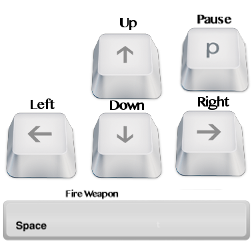
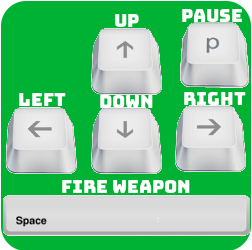
v0.3.7 added controlSelection scene

diff --git a/scripts/scenes/controlSelection.js b/scripts/scenes/controlSelection.js
@@ -1,0 +1,69 @@
+/**
+ * @file controlSelection.ts
+ * @author Kevin Ma kma45@my.centennialcollege.ca
+ * @date December 6 2016
+ * @version 0.3.7 added controlSelection scene
+ * @description This scene determines the controls used in the remainder of the game
+ **/
+var __extends = (this && this.__extends) || function (d, b) {
+    for (var p in b) if (b.hasOwnProperty(p)) d[p] = b[p];
+    function __() { this.constructor = d; }
+    d.prototype = b === null ? Object.create(b) : (__.prototype = b.prototype, new __());
+};
+var scenes;
+(function (scenes) {
+    var ControlSelection = (function (_super) {
+        __extends(ControlSelection, _super);
+        // CONSTRUCTOR ++++++++++++++++++++++++++++++++++++++++++++++++
+        function ControlSelection() {
+            _super.call(this);
+        }
+        // PUBLIC METHODS +++++++++++++++++++++++++++++++++++++++++++++
+        ControlSelection.prototype.start = function () {
+            this._bg = new createjs.Shape();
+            // black rectangle covering whole bg
+            this._bg.graphics.beginFill("#000")
+                .drawRect(0, 0, config.Screen.WIDTH, config.Screen.HEIGHT);
+            this.addChild(this._bg);
+            //adding title Label
+            this.addChild(this._instructionsLbl = new objects.Label("Select your set of Controls", "40px customfont", "#00FF48", config.Screen.CENTER_X, 150));
+            this.addChild(new objects.Label("or", "40px customfont", "#00FF48", config.Screen.CENTER_X, config.Screen.CENTER_Y + 50));
+            //adding buttons
+            this.addChild(this._kbBtn = new objects.Button('kbcontrols', config.Screen.CENTER_X + 200, config.Screen.CENTER_Y + 50));
+            this._kbBtn.shadow = new createjs.Shadow("#00FF48", 0, 0, 25);
+            this.addChild(this._mouseBtn = new objects.Button('mousecontrols', config.Screen.CENTER_X - 200, config.Screen.CENTER_Y + 50));
+            this._mouseBtn.shadow = new createjs.Shadow("#00FF48", 0, 0, 25);
+            //adding event handlers
+            this._kbBtn.on('click', this._kbBtnClick, this);
+            this._mouseBtn.on('click', this._mouseBtnClick, this);
+            stage.addChild(this);
+        };
+        ControlSelection.prototype.update = function () {
+        };
+        // PRIVATE METHODS +++++++++++++++++++++++++++++++++++++++++++
+        /**
+         *
+         * These two methods sets the boolean value of mouseControls
+         * This will determine how the player interaacts with the game for
+         * the remainder of the game
+         *
+         * @private
+         *
+         * @memberOf ControlSelection
+        
+         */
+        ControlSelection.prototype._kbBtnClick = function () {
+            mouseControls = false;
+            scene = config.Scene.LEVEL1;
+            changeScene();
+        };
+        ControlSelection.prototype._mouseBtnClick = function () {
+            mouseControls = true;
+            scene = config.Scene.LEVEL1;
+            changeScene();
+        };
+        return ControlSelection;
+    }(objects.Scene));
+    scenes.ControlSelection = ControlSelection; // end class Menu
+})(scenes || (scenes = {}));
+//# sourceMappingURL=controlSelection.js.map

diff --git a/scripts/scenes/controlSelection.ts b/scripts/scenes/controlSelection.ts
@@ -1,0 +1,83 @@
+/**
+ * @file controlSelection.ts
+ * @author Kevin Ma kma45@my.centennialcollege.ca
+ * @date December 6 2016
+ * @version 0.3.7 added controlSelection scene
+ * @description This scene determines the controls used in the remainder of the game 
+ **/
+
+module scenes {
+    export class ControlSelection extends objects.Scene {
+
+        // PRIVATE VARIABLES ++++++++++++++++++++++++++++++++++++++++++
+        private _bg: createjs.Shape
+        private _kbBtn: objects.Button
+        private _mouseBtn: objects.Button
+        private _instructionsLbl: objects.Label
+
+        // CONSTRUCTOR ++++++++++++++++++++++++++++++++++++++++++++++++
+        constructor() {
+            super();
+        }
+
+        // PUBLIC METHODS +++++++++++++++++++++++++++++++++++++++++++++
+        public start(): void {
+            this._bg = new createjs.Shape()
+            // black rectangle covering whole bg
+            this._bg.graphics.beginFill("#000")
+                .drawRect(0, 0, config.Screen.WIDTH, config.Screen.HEIGHT)
+            this.addChild(this._bg)
+
+            //adding title Label
+            this.addChild(this._instructionsLbl = new objects.Label("Select your set of Controls", "40px customfont", "#00FF48", config.Screen.CENTER_X, 150))
+            this.addChild(new objects.Label("or", "40px customfont", "#00FF48", config.Screen.CENTER_X, config.Screen.CENTER_Y + 50))
+
+            //adding buttons
+            this.addChild(this._kbBtn = new objects.Button(
+                'kbcontrols',
+                config.Screen.CENTER_X + 200,
+                config.Screen.CENTER_Y + 50))
+            this._kbBtn.shadow = new createjs.Shadow("#00FF48", 0, 0, 25)
+
+            this.addChild(this._mouseBtn = new objects.Button(
+                'mousecontrols',
+                config.Screen.CENTER_X - 200,
+                config.Screen.CENTER_Y + 50))
+            this._mouseBtn.shadow = new createjs.Shadow("#00FF48", 0, 0, 25)
+
+            //adding event handlers
+            this._kbBtn.on('click', this._kbBtnClick, this)
+            this._mouseBtn.on('click', this._mouseBtnClick, this)
+
+            stage.addChild(this);
+        }
+
+        public update(): void {
+        }
+
+        // PRIVATE METHODS +++++++++++++++++++++++++++++++++++++++++++
+        /**
+         * 
+         * These two methods sets the boolean value of mouseControls
+         * This will determine how the player interaacts with the game for
+         * the remainder of the game
+         * 
+         * @private
+         * 
+         * @memberOf ControlSelection
+        
+         */
+        private _kbBtnClick(): void {
+            mouseControls = false
+            scene = config.Scene.LEVEL1
+            changeScene()
+        }
+
+        private _mouseBtnClick(): void {
+            mouseControls = true
+            scene = config.Scene.LEVEL1
+            changeScene()
+        }
+
+    } // end class Menu
+}

diff --git a/scripts/core/game.js b/scripts/core/game.js
@@ -4,7 +4,7 @@
  * @author Chamsol Yoon cyoon2@my.centennialcollege.ca
  * @author Kevin Ma kma45@my.centennialcollege.ca
  * @date December 6 2016
- * @version 0.3.6 added control images
+ * @version 0.3.7 added controlSelection scene
  * @description This file starts the game
  **/
 // Global Variable
@@ -22,6 +22,7 @@ var highScore = 0;
 var lives = 5;
 var level = 1;
 var beamEnergyPercent;
+var mouseControls;
 // Game Scenes;
 var currentScene;
 // Preload Assets
@@ -170,8 +171,13 @@ function changeScene() {
             break;
         case config.Scene.PAUSE:
             stage.removeAllChildren();
-            currentScene = new scenes.Pause;
+            currentScene = new scenes.Pause();
             console.log("Pause Scene changed");
+            break;
+        case config.Scene.CONTROLSELECT:
+            stage.removeAllChildren();
+            currentScene = new scenes.ControlSelection();
+            console.log('Control Selection Scene changed');
             break;
     }
 }

diff --git a/scripts/core/game.ts b/scripts/core/game.ts
@@ -5,7 +5,7 @@
  * @author Chamsol Yoon cyoon2@my.centennialcollege.ca
  * @author Kevin Ma kma45@my.centennialcollege.ca
  * @date December 6 2016
- * @version 0.3.6 added control images
+ * @version 0.3.7 added controlSelection scene
  * @description This file starts the game 
  **/
 
@@ -26,6 +26,7 @@ var highScore: number = 0;
 var lives: number = 5;
 let level: number = 1;
 let beamEnergyPercent: number
+let mouseControls: boolean
 
 
 // Game Scenes;
@@ -193,8 +194,13 @@ function changeScene(): void {
             break;
         case config.Scene.PAUSE:
             stage.removeAllChildren();
-            currentScene = new scenes.Pause
+            currentScene = new scenes.Pause()
             console.log("Pause Scene changed");
+            break;
+        case config.Scene.CONTROLSELECT:
+            stage.removeAllChildren();
+            currentScene = new scenes.ControlSelection()
+            console.log('Control Selection Scene changed');
             break;
     }
 }

diff --git a/scripts/config/config.ts b/scripts/config/config.ts
@@ -2,8 +2,8 @@
  * @file config.ts 
  * @author Chamsol Yoon cyoon2@my.centennialcollege.ca
  * @author Kevin Ma kma45@my.centennialcollege.ca
- * @date December 5 2016
- * @version 0.2.0 added abstract scrollingLevel class
+ * @date December 6 2016
+ * @version 0.3.7 added controlSelection scene
  * @description Defines the global static configuration values for the game 
  **/
 
@@ -16,7 +16,7 @@ module config {
         public static LEVEL3: number = 4;
         public static OVER: number = 5;
         public static PAUSE: number = 6;
-
+        public static CONTROLSELECT: number = 7
     }
     export class Screen {
         public static WIDTH: number = 890;

diff --git a/scripts/scenes/menu.js b/scripts/scenes/menu.js
@@ -3,7 +3,7 @@
  * @author Chamsol Yoon cyoon2@my.centennialcollege.ca
  * @author Kevin Ma kma45@my.centennialcollege.ca
  * @date December 6 2016
- * @version 0.2.6 hide cursor during scrollingLevel scenes
+ * @version 0.3.7 added controlSelection scene
  * @description This is the main title scene
  **/
 var __extends = (this && this.__extends) || function (d, b) {
@@ -148,7 +148,7 @@ var scenes;
                 scaleY: 0,
                 alpha: 0
             }, 1500).call(function (e) {
-                scene = config.Scene.LEVEL1;
+                scene = config.Scene.CONTROLSELECT;
                 changeScene();
             });
         };

diff --git a/index.html b/index.html
@@ -4,7 +4,7 @@
     @author Kevin Ma
     @date December 6 2016
     @description This file is the manifest for the web app
-    @version 0.2.3 fixed asteroid positioning with new ui
+    @version 0.3.7 added controlSelection scene
 -->
 <!DOCTYPE html>
 <html>
@@ -64,6 +64,7 @@
 
         <!-- Scene Scripts -->
         <script src="scripts/scenes/menu.js"></script>
+        <script src="scripts/scenes/controlSelection.js"></script>
         <script src="scripts/scenes/rule.js"></script>
         <script src="scripts/scenes/scrollingLevel.js"></script>
         <script src="scripts/scenes/pause.js"></script>

diff --git a/scripts/config/config.js b/scripts/config/config.js
@@ -2,8 +2,8 @@
  * @file config.ts
  * @author Chamsol Yoon cyoon2@my.centennialcollege.ca
  * @author Kevin Ma kma45@my.centennialcollege.ca
- * @date December 5 2016
- * @version 0.2.0 added abstract scrollingLevel class
+ * @date December 6 2016
+ * @version 0.3.7 added controlSelection scene
  * @description Defines the global static configuration values for the game
  **/
 var config;
@@ -18,6 +18,7 @@ var config;
         Scene.LEVEL3 = 4;
         Scene.OVER = 5;
         Scene.PAUSE = 6;
+        Scene.CONTROLSELECT = 7;
         return Scene;
     }());
     config.Scene = Scene;

diff --git a/scripts/scenes/menu.ts b/scripts/scenes/menu.ts
@@ -3,7 +3,7 @@
  * @author Chamsol Yoon cyoon2@my.centennialcollege.ca
  * @author Kevin Ma kma45@my.centennialcollege.ca
  * @date December 6 2016
- * @version 0.2.6 hide cursor during scrollingLevel scenes
+ * @version 0.3.7 added controlSelection scene
  * @description This is the main title scene 
  **/
 
@@ -168,7 +168,7 @@ module scenes {
                 scaleY: 0,
                 alpha: 0
             }, 1500).call(e => {
-                scene = config.Scene.LEVEL1;
+                scene = config.Scene.CONTROLSELECT;
                 changeScene();
             })
 

diff --git a/scripts/core/_reference.js b/scripts/core/_reference.js
@@ -17,6 +17,7 @@
 /// <reference path="../objects/player_bullet.ts" />
 /// <reference path="../objects/player.ts" />
 /// <reference path="../scenes/menu.ts" />
+/// <reference path="../scenes/controlSelection.ts" />
 /// <reference path="../scenes/rule.ts" />
 /// <reference path="../scenes/scrollingLevel.ts" />
 /// <reference path="../scenes/level1.ts" />

diff --git a/scripts/core/_reference.ts b/scripts/core/_reference.ts
@@ -22,6 +22,7 @@
 /// <reference path="../objects/player.ts" />
 
 /// <reference path="../scenes/menu.ts" />
+/// <reference path="../scenes/controlSelection.ts" />
 /// <reference path="../scenes/rule.ts" />
 /// <reference path="../scenes/scrollingLevel.ts" />
 /// <reference path="../scenes/level1.ts" />
